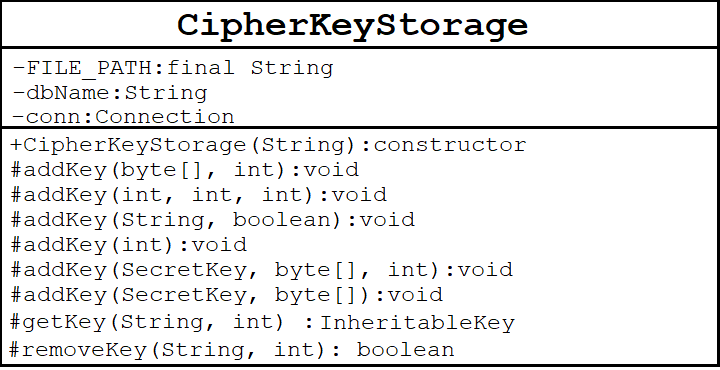
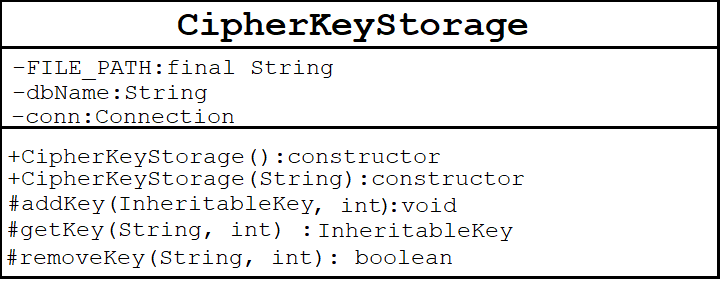
Fixed up the UML class diagram component, and also changed the approach tot he class to be much more simpler with few methods to do the same tasks.

Changed region(s): [[0.0, 0.0, 1.0, 1.0]]

diff --git a/Encryptor Decryptor File Encryption/src/Encryptor Decryptor File Ecryption/main/CipherKeyStorage.java b/Encryptor Decryptor File Encryption/src/Encryptor Decryptor File Ecryption/main/CipherKeyStorage.java
@@ -1,0 +1,40 @@
+/**
+ * 
+ */
+package main;
+
+import CipherKeys.*;
+import java.sql.Connection;
+import java.sql.DriverManager;
+import java.sql.SQLException;
+
+/**
+ * @author Amol Soneji
+ *
+ */
+public class CipherKeyStorage 
+{
+	private static final String FILE_PATH = "Keys.db";
+	private String dbName;
+	private Connection conn;
+	
+	public CipherKeyStorage(String dbName)
+	{
+		this.dbName = dbName;
+		try
+		{
+			this.conn = DriverManager.getConnection("jdbc:sqlite:" + FILE_PATH);
+		}
+		catch(SQLException e)
+		{
+			e.printStackTrace();
+			System.out.println("There was an internal error with the program.  \n"
+							  + "The program will exit in 10 seconds.  ");
+			for(int i = 0; i < 10000; i++)
+			{
+				i = i; //Do nothing.  
+			}
+			System.exit(1);
+		}
+	}
+}
